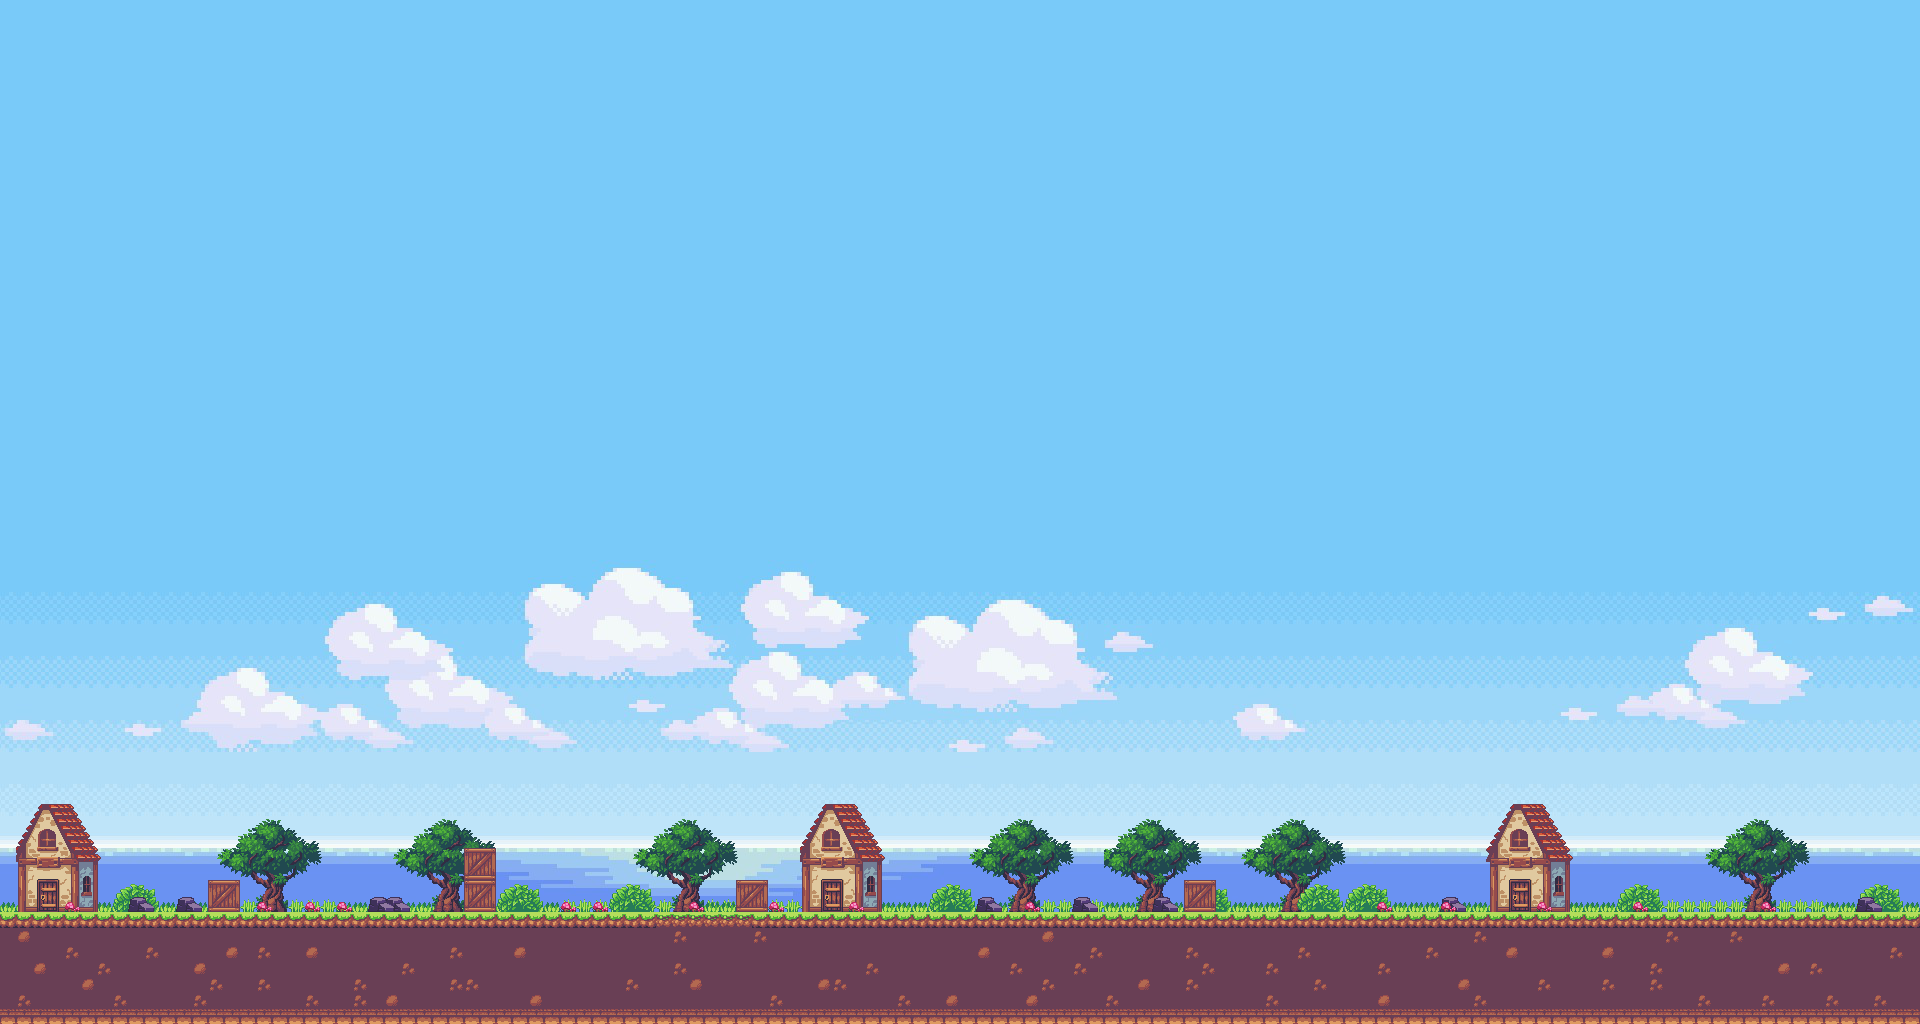
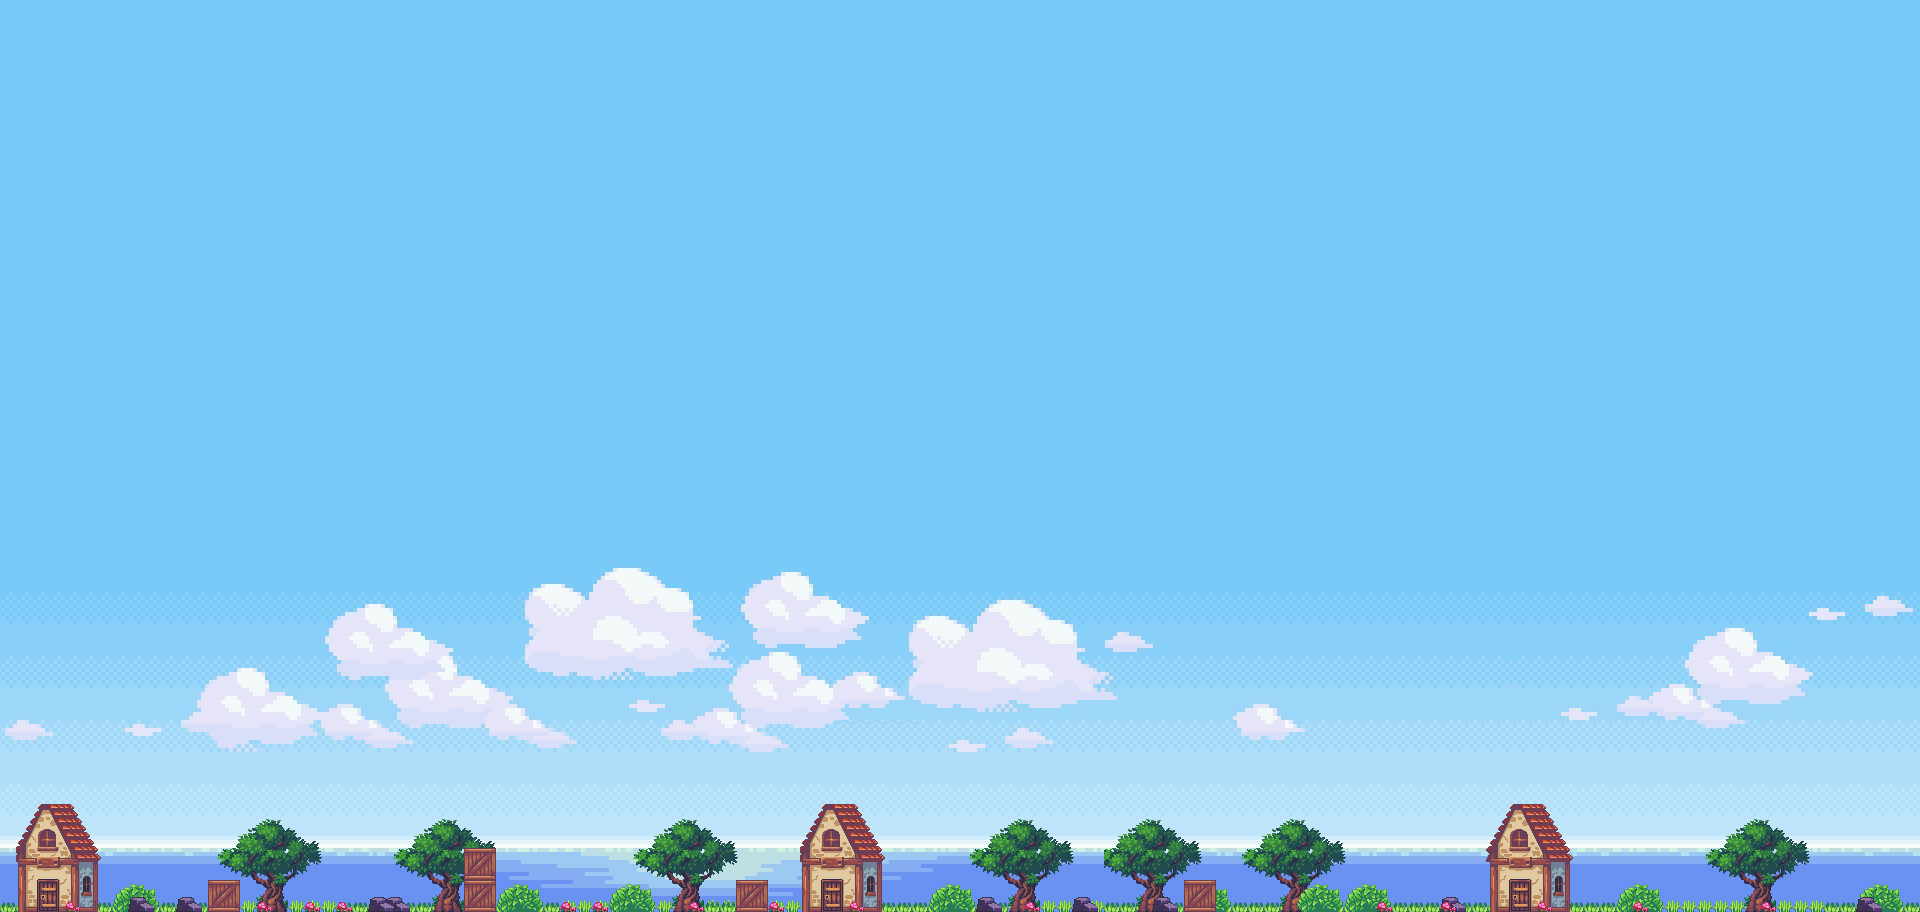
Title screen with sticky navbar

Changed region(s): [[0.0, 0.5526, 1.0, 1.0], [0.9375, 0.5833, 1.0, 0.614]]

diff --git a/app/public/index.html b/app/public/index.html
@@ -5,23 +5,30 @@
 		<meta http-equiv="X-UA-Compatible" content="IE=edge">
 		<title>Pioneers of Interactive Entertainment</title>
 		<meta name="description" content="">
-		<meta name="viewport" content="width=device-width initial-scale=1.0">
+		<meta name="viewport" content="width=device-width, initial-scale=1.0, shrink-to-fit=no">
 		<meta name="application-name" content="PIE">
 
+		<!-- Stylesheets -->
 		<link href="css/index.css" rel="stylesheet">
 
 		<!-- Google Analytics -->
 		<script>
 		</script>
 	</head>
-	<body id="skrollr-body">
-		<div id="pie-sky" class="page-container">
-		</div>
-		<div id="pie-dungeon" class="page-container">
+	<body>
+		<div id="content">
+			<div id="pie-sky">
+				<div id="pie-logo-container">
+					<img id="pie-logo" src="img/logo_md.png" class="img-responsive">
+					<h1 id="enter-hint" class="text-center text-flashing">Press <i>A</i> to enter.</h1>
+				</div>
+			</div>
+			<nav id="pie-nav"></nav>
+			<div id="pie-dungeon" class="page-container">
+			</div>
 		</div>
 
-		<!-- JavaScript -->
-		<script src="js/skrollr.min.js" type="text/javascript"></script>
-		<script src="js/index.js" type="text/javascript"></script>
+		<!-- Javascript -->
+		<script src="js/index.js"></script>
 	</body>
 </html>

diff --git a/app/public/css/index.css b/app/public/css/index.css
@@ -1,13 +1,9 @@
+@import url('https://fonts.googleapis.com/css?family=VT323');
+
 body {
 	padding: 0;
 	margin: 0;
-}
-
-.page-container {
-	height: 100vh;
-	width: 100vw;
-	min-height: 375px;
-	min-width: 500px;
+	font-family: VT323, Arial;
 }
 
 #pie-sky {
@@ -15,10 +11,45 @@ body {
 	background-size: cover;
 	background-position: left bottom;
 	background-repeat: repeat-x;
-	max-height: 1024px;
+	height: 89.0625vh;
+	max-height: 912px;
+	min-height: 525px;
+	min-width: 700px;
+
+}
+
+#pie-logo-container {
+	width: 100%;
+	height: 100%;
+}
+
+#pie-logo {
+	display: block;
+	margin: auto;
+}
+
+#pie-nav {
+	background-image: url(../img/ground.png);
+	background-size: auto 100%;
+	background-position: left bottom;
+	background-repeat: repeat-x;
+	min-height: 60px;
+	height: 10.9375vh;
+	max-height: 112px;
+}
+
+.sticky {
+	position: fixed;
+	top: 0;
+	width: 100%;
 }
 
 #pie-dungeon {
 	background-image: url(../img/brick.png);
 	background-repeat: repeat;
+	height: 300vh; /* temporary */
+}
+
+.text-center {
+	text-align: center;
 }

diff --git a/app/public/js/index.js b/app/public/js/index.js
@@ -1,3 +1,25 @@
-var s = skrollr.init({
-	// Options
+var flashText = function () {
+	var flashingTexts = document.getElementsByClassName('text-flashing');
+	setInterval(function() {
+		for (var i = 0; i < flashingTexts.length; i++) {
+			flashingTexts[i].style.display = (flashingTexts[i].style.display == 'none' ? '' : 'none');
+		}
+	}, 500);
+}
+
+var stickNavbar = function () {
+	var navbar = document.getElementById('pie-nav');
+
+	if (window.scrollY >= document.getElementById('pie-sky').offsetHeight)
+		navbar.classList.add('sticky');
+	else
+		navbar.classList.remove('sticky');
+}
+
+window.addEventListener('load', function() {
+	flashText();
+}, false);
+
+window.addEventListener('scroll', function() {
+	stickNavbar();
 });
